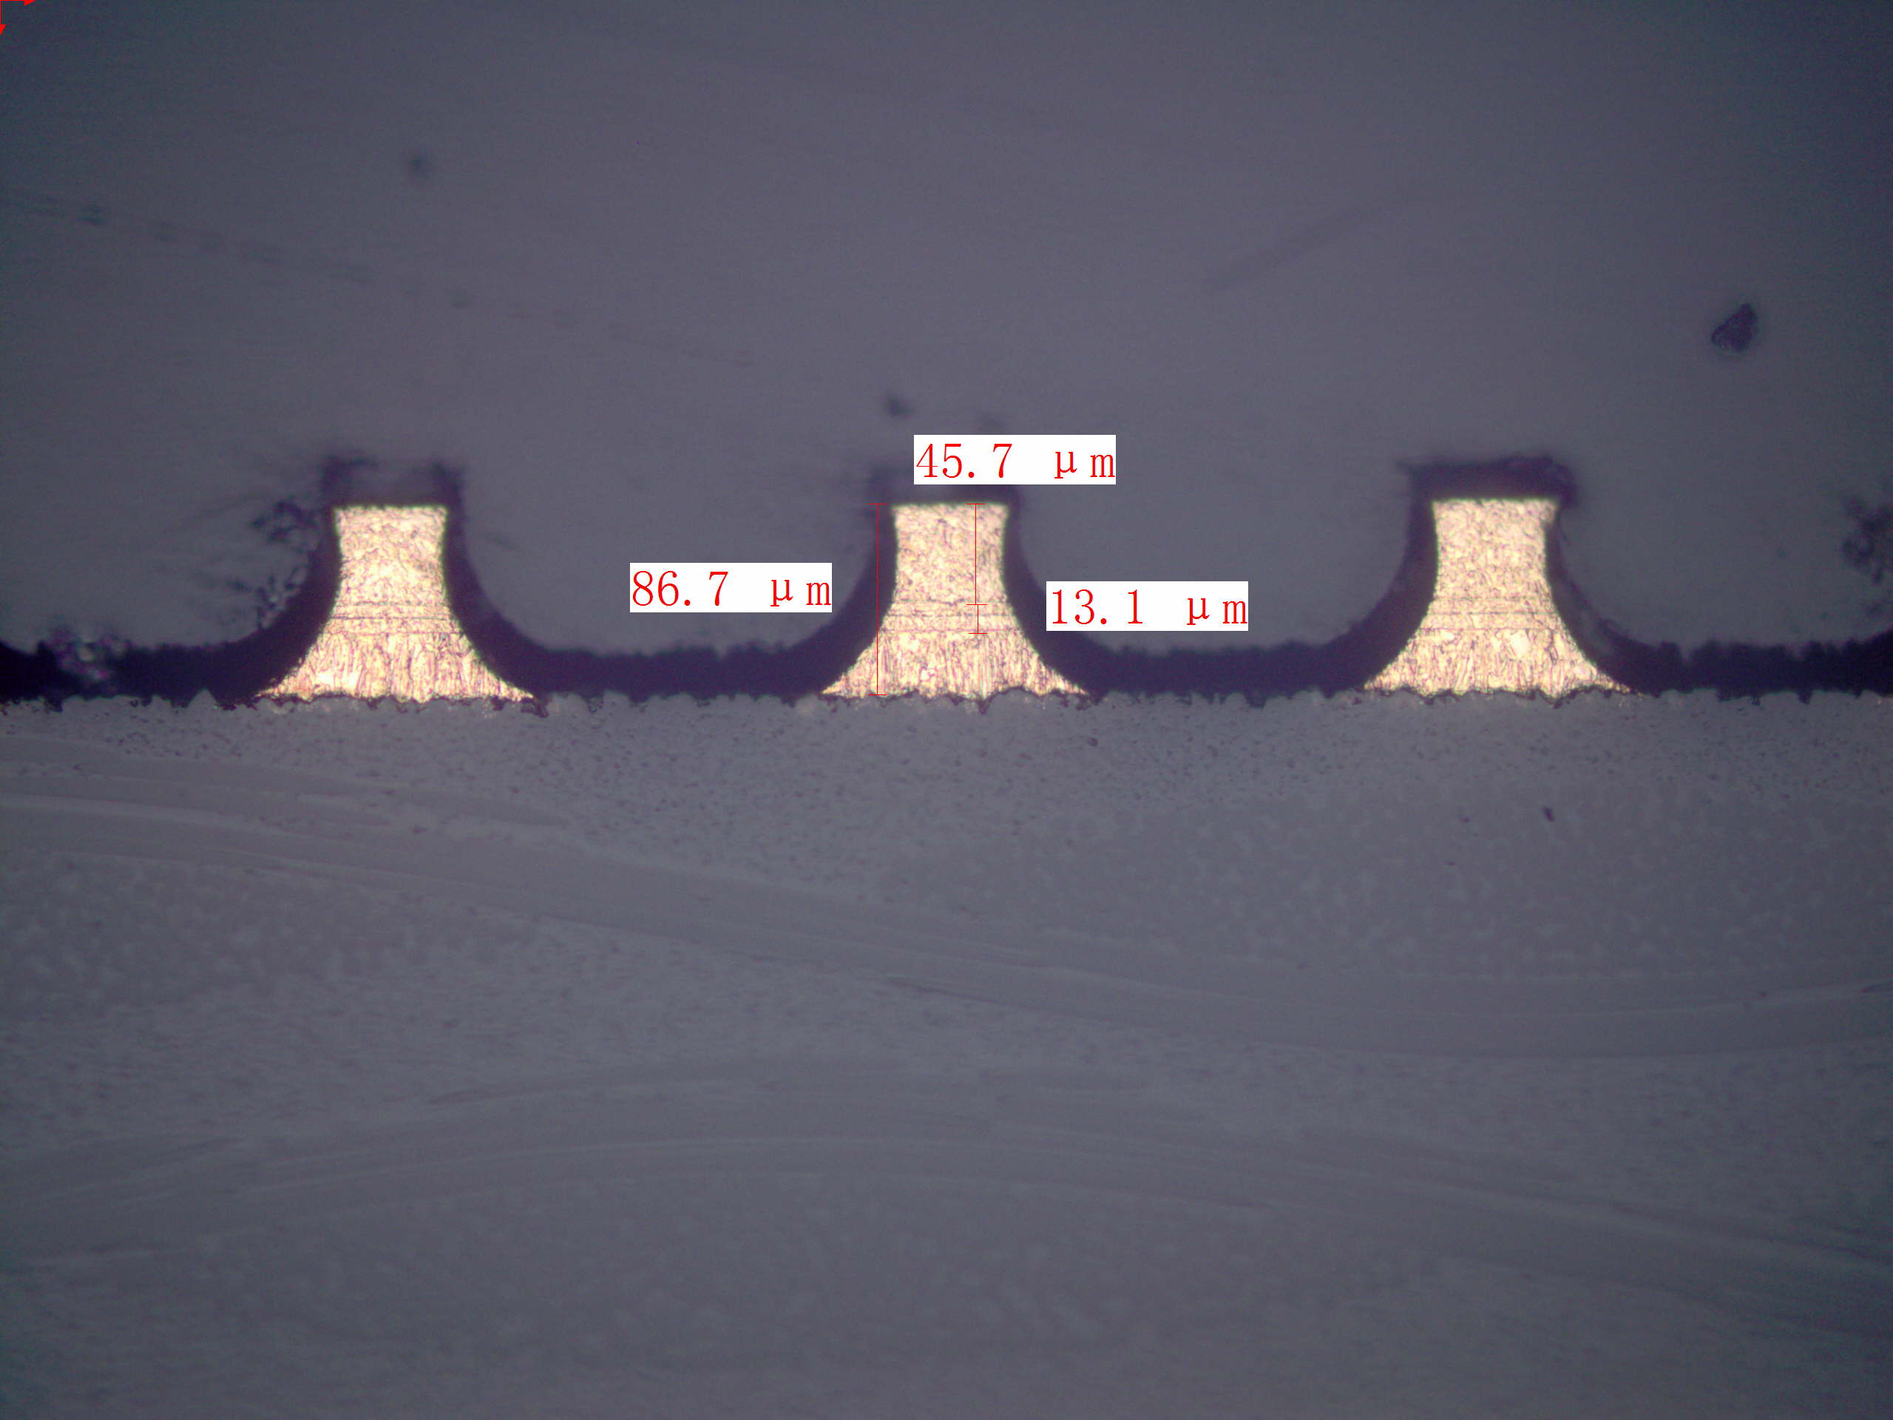
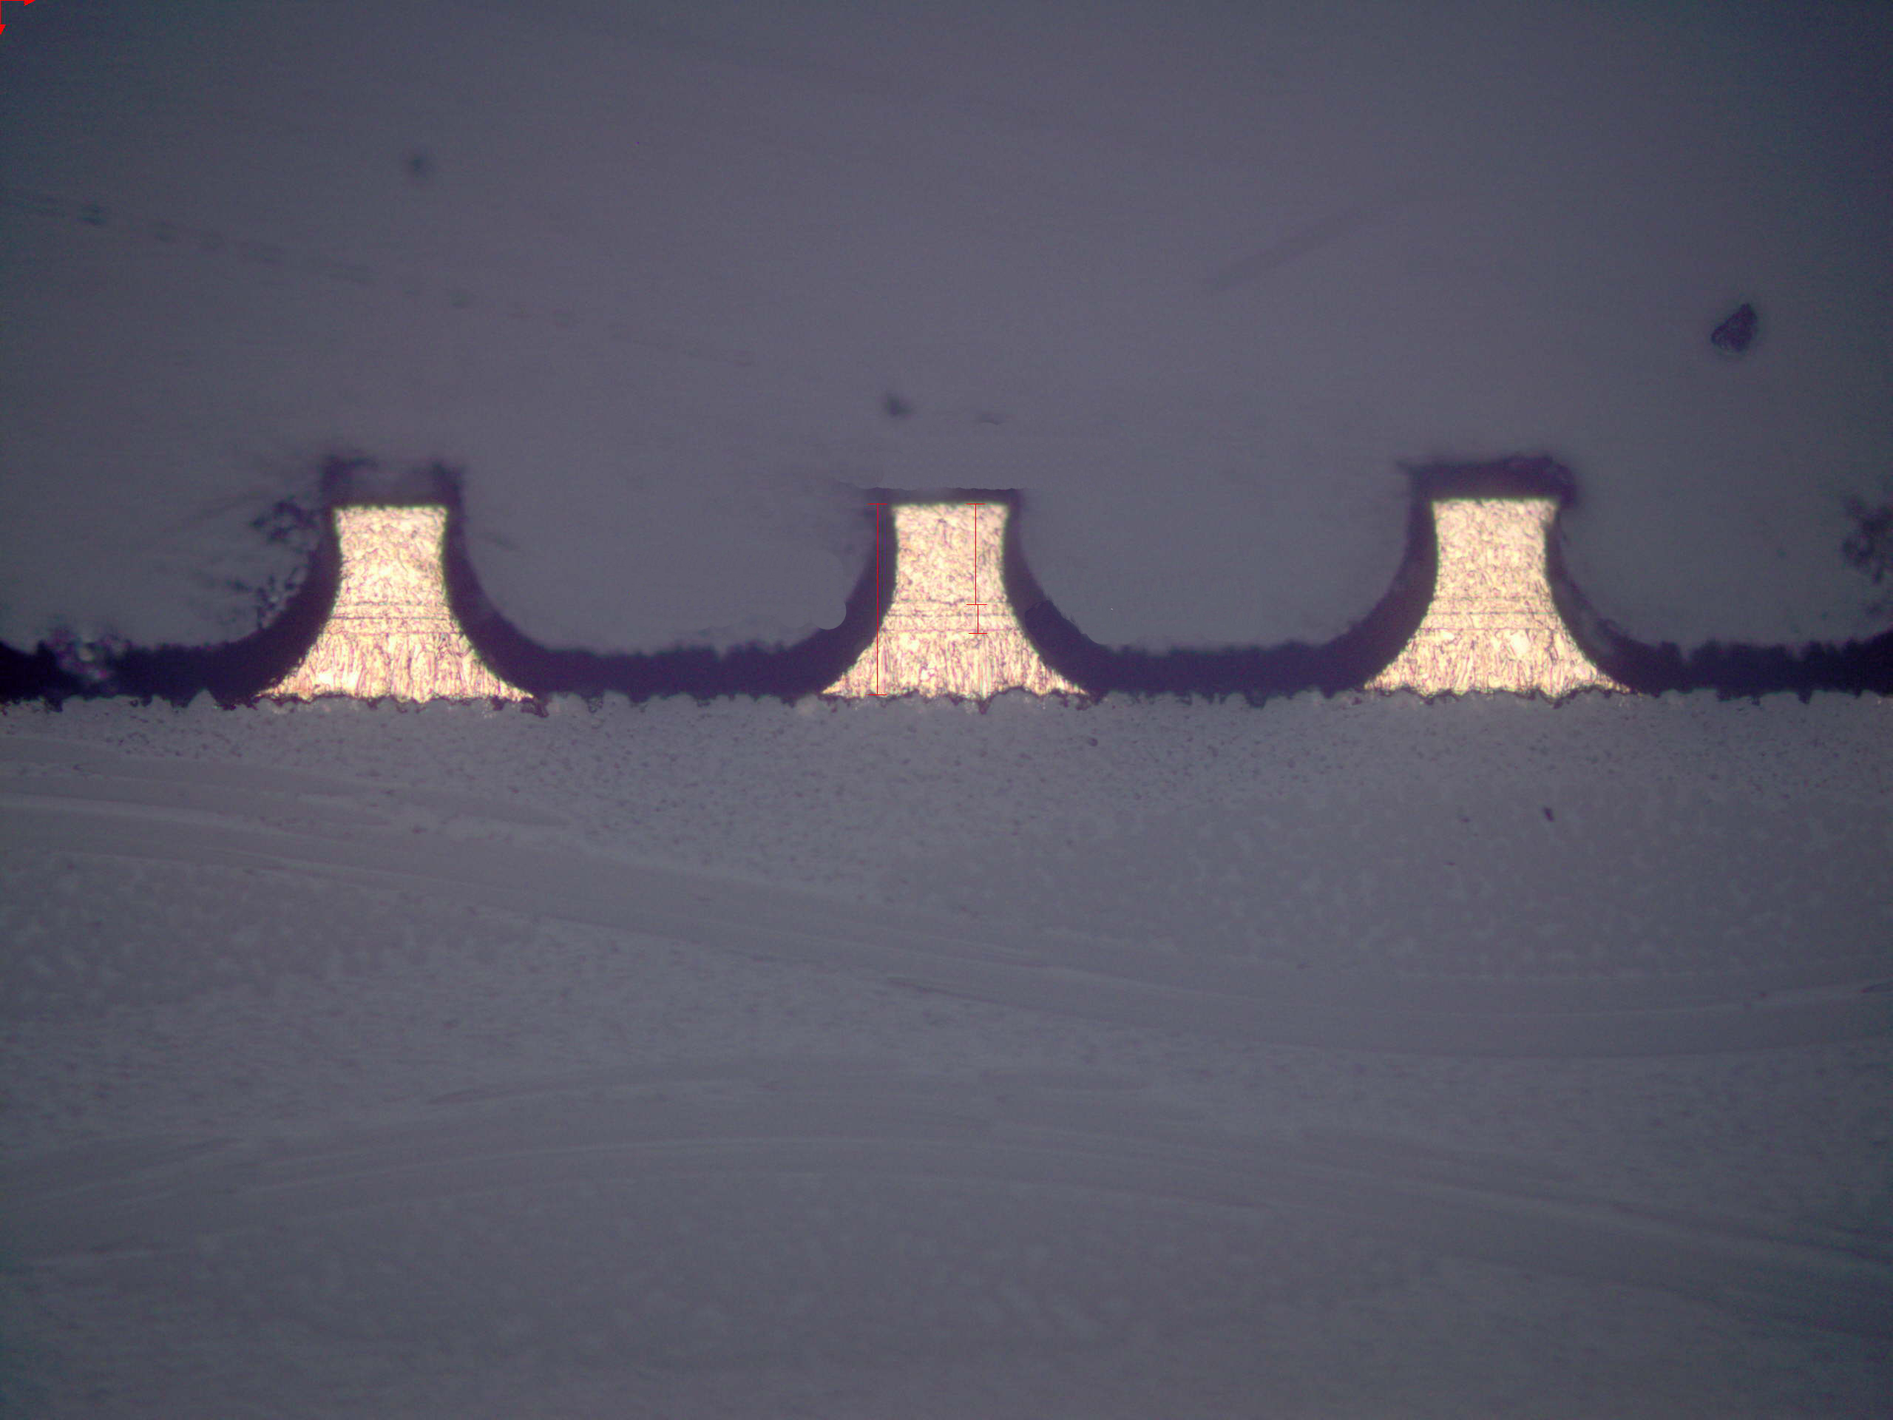
update 8.27 18:26

Changed region(s): [[0.3125, 0.375, 0.4688, 0.4375], [0.4688, 0.2812, 0.5938, 0.3438], [0.5312, 0.4062, 0.6562, 0.4688]]

diff --git a/measurement/utils/circuit_surface.py b/measurement/utils/circuit_surface.py
@@ -10,6 +10,83 @@ import base64
 import os
 
 
+def a_b_c_d_measurement(coordinates, img):
+    """上 左边位置 a, 上 右边位置 b, 下 左边位置 c, 下 右边位置 d
+    先裁剪出来中间的部分，然后用颜色区分检测边缘"""
+
+    height, width, dimension = img.shape
+    right = coordinates[coordinates.argmax(axis=0)[0]]
+    # print("right", right)
+    top_array = coordinates[numpy.where(coordinates[:, 0] == right[0] - 200)]
+    top_limit = coordinates[numpy.where(
+        (coordinates[:, 1] < (top_array[-1][1] + 10)) & (coordinates[:, 1] > (top_array[-1][1] - 10)))]
+
+    top_temp_list = list()
+    for index in range(len(top_limit) - 1):
+        if top_limit[index + 1][0] - top_limit[index][0] > 500:
+            top_temp_list.append(index + 1)
+            break
+    middle_limit_left = top_limit[top_temp_list[0]]
+
+    bottom_array = coordinates[numpy.where(coordinates[:, 1] > top_array[-1][1] + 50)]
+    bottom_array_top = bottom_array[bottom_array.argmin(axis=0)[1]]
+    middle_limit_right = coordinates[numpy.where(
+        (coordinates[:, 1] < (bottom_array_top[1] + 10)) & (coordinates[:, 1] > (bottom_array_top[1] - 10)))][-1]
+    # print("middle_limit_left", middle_limit_left, "middle_limit_right", middle_limit_right)
+
+    # 裁剪图片: 左上角坐标，右下角坐标
+    cut_img = img[top_array[-1][1]:bottom_array_top[1], 0:width]
+
+    cut_img_gray = cv2.cvtColor(cut_img, cv2.COLOR_BGR2GRAY)
+    cut_img_blurred = cv2.bilateralFilter(cut_img_gray, 0, 100, 15)
+    cut_img_thresh = cv2.threshold(cut_img_blurred, 0, 255, cv2.THRESH_BINARY + cv2.THRESH_OTSU)[1]
+
+    cut_edges = cv2.Canny(cut_img_thresh, 200, 400, 1)
+    cut_indices = numpy.where(cut_edges != [0])
+    cut_coordinates = numpy.array(list(zip(cut_indices[1], cut_indices[0])))
+
+    a_coordinate = cut_coordinates[numpy.where(cut_coordinates[:, 0] == middle_limit_left[0])][0]
+    a_real_coordinate = numpy.array([a_coordinate[0], a_coordinate[1] + middle_limit_left[1]])
+    a_length = a_real_coordinate[1] - middle_limit_left[1]
+
+    d_coordinate = cut_coordinates[numpy.where(cut_coordinates[:, 0] == middle_limit_right[0])][-1]
+    d_real_coordinate = numpy.array([d_coordinate[0], top_array[-1][1] + d_coordinate[1]])
+    d_length = middle_limit_right[1] - d_real_coordinate[1]
+    # print("a_coordinate", a_coordinate, "d_coordinate", d_coordinate)
+
+    cv2.line(img, tuple(middle_limit_left), tuple(a_real_coordinate), (0, 255, 0), thickness=4)
+    cv2.putText(img, str(a_length), (middle_limit_left[0] + 10, middle_limit_left[1] + 50), cv2.FONT_HERSHEY_SIMPLEX,
+                2, (0, 255, 0), 4)
+
+    cv2.line(img, tuple(middle_limit_right), tuple(d_real_coordinate), (0, 255, 0), thickness=4)
+    cv2.putText(img, str(d_length), (d_real_coordinate[0] + 10, d_real_coordinate[1] + 50), cv2.FONT_HERSHEY_SIMPLEX,
+                2, (0, 255, 0), 4)
+
+    middle_length = middle_limit_right[0] - middle_limit_left[0]
+    b_c_coordinates = cut_coordinates[numpy.where(cut_coordinates[:, 0] == (middle_limit_left[0] + middle_length // 2))]
+    # print("b_c_coordinates", b_c_coordinates)
+
+    b_top = top_limit[numpy.where(top_limit[:, 0] == b_c_coordinates[0][0])][-1]
+    b_real_bottom = numpy.array([b_c_coordinates[0][0], b_c_coordinates[0][1] + b_top[1]])
+    b_length = b_real_bottom[1] - b_top[1]
+    cv2.line(img, tuple(b_top), tuple(b_real_bottom), (0, 255, 0), thickness=4)
+    cv2.putText(img, str(b_length), (b_top[0] + 10, b_top[1] + 50), cv2.FONT_HERSHEY_SIMPLEX, 2, (0, 255, 0), 4)
+
+    c_real_top = numpy.array([b_c_coordinates[1][0], top_array[-1][1] + b_c_coordinates[1][1]])
+    bottom_limit = coordinates[numpy.where(coordinates[:, 1] >= c_real_top[1] - 20)]
+    c_bottom = bottom_limit[numpy.where(bottom_limit[:, 0] == c_real_top[0])][0]
+    c_length = c_bottom[1] - c_real_top[1]
+    cv2.line(img, tuple(c_real_top), tuple(c_bottom), (0, 255, 0), thickness=4)
+    cv2.putText(img, str(c_length), (c_real_top[0] + 10, c_real_top[1] + 50), cv2.FONT_HERSHEY_SIMPLEX, 2,
+                (0, 255, 0), 4)
+
+    # cv2.namedWindow('cut_img', cv2.WINDOW_NORMAL)
+    # cv2.imshow("cut_img", cut_img)
+    # cv2.waitKey(0)
+
+    return a_length, b_length, c_length, d_length
+
+
 def main(image=None):
     img_name = uuid.uuid1()
     if not image:
@@ -24,30 +101,30 @@ def main(image=None):
     img_blurred = cv2.bilateralFilter(img_gray, 0, 100, 15)
     img_thresh = cv2.threshold(img_blurred, 0, 255, cv2.THRESH_BINARY + cv2.THRESH_OTSU)[1]  # OTSU滤波, 自动找到一个介于两波峰之间的阈值
 
-    # edges = cv2.Canny(img_thresh, 200, 400, 1)
-    # indices = numpy.where(edges != [0])
-    # coordinates = numpy.array(list(zip(indices[1], indices[0])))
+    edges = cv2.Canny(img_thresh, 200, 400, 1)
+    indices = numpy.where(edges != [0])
+    coordinates = numpy.array(list(zip(indices[1], indices[0])))
 
-    # todo 先裁剪出来中间的部分，然后用颜色区分检测边缘...
-
-    # a_b_c_measurement(coordinates, img)
+    a_length, b_length, c_length, d_length = a_b_c_d_measurement(coordinates, img)
 
     if os.path.exists('measurement/images/{}.jpg'.format(img_name)):
         os.remove('measurement/images/{}.jpg'.format(img_name))
 
-    cv2.namedWindow('img_thresh', cv2.WINDOW_NORMAL)
-    cv2.imshow("img_thresh", img_thresh)
-    cv2.waitKey(0)
+    # cv2.namedWindow('img_thresh', cv2.WINDOW_NORMAL)
+    # cv2.imshow("img_thresh", img_thresh)
+    # cv2.waitKey(0)
 
     # cv2.namedWindow('edges', cv2.WINDOW_NORMAL)
     # cv2.imshow("edges", edges)
     # cv2.waitKey(0)
 
-    cv2.namedWindow('img', cv2.WINDOW_NORMAL)
-    cv2.imshow("img", img)
-    cv2.waitKey(0)
+    # cv2.namedWindow('img', cv2.WINDOW_NORMAL)
+    # cv2.imshow("img", img)
+    # cv2.waitKey(0)
 
-    cv2.destroyAllWindows()
+    # cv2.destroyAllWindows()
+
+    return {"a": a_length, "b": b_length, "c": c_length, "d": d_length, "image": img}
 
 
 if __name__ == '__main__':

diff --git a/measurement/utils/circuit_copper_width.py b/measurement/utils/circuit_copper_width.py
@@ -9,6 +9,9 @@ import uuid
 import base64
 import os
 
+COMBINE = ['a', 'b', 'c', 'd', 'e', 'f', 'g', 'h', 'i', 'j', 'k', 'l', 'm', 'n', 'o', 'p', 'q', 'r', 's', 't', 'u',
+           'v', 'w', 'x', 'y', 'z']
+
 
 def a_b_measurement(coordinates, img):
     """会有多个 部分尺寸测量 整体宽度 里面的部分位置和背景噪声很像，无法识别测量"""
@@ -20,31 +23,32 @@ def a_b_measurement(coordinates, img):
         (coordinates[:, 1] >= bottom_array[-2][1] - 100) & (coordinates[:, 1] <= bottom_array[-1][1] + 100))]
     coordinates_limit_sort = width_limit[width_limit[:, 0].argsort(), :]
     # print("coordinates_limit_sort", coordinates_limit_sort)
-    count_list = list()
+
+    count_list, middle_list, length_list = list(), list(), list()
     for index in range(len(coordinates_limit_sort) - 1):
         if coordinates_limit_sort[index + 1][0] - coordinates_limit_sort[index][0] > 50:
             count_list.append(index)
-    # print("count_list", count_list)
-    # todo 多个物体自动测量
-    a_x_left, a_x_right = coordinates_limit_sort[0][0], coordinates_limit_sort[count_list[0]][0]
-    b_x_left, b_x_right = coordinates_limit_sort[count_list[0] + 1][0], coordinates_limit_sort[-1][0]
-    # print(a_x_left, a_x_right), print(b_x_left, b_x_right)
-    a_middle = a_x_left + (a_x_right - a_x_left) // 2
-    a_coordinates_array = coordinates[numpy.where(coordinates[:, 0] == a_middle)]
-    a_coordinate_top, a_coordinate_bottom = a_coordinates_array[-2], a_coordinates_array[-1]
-    a_length = a_coordinate_bottom[1] - a_coordinate_top[1]
-    cv2.line(img, tuple(a_coordinate_top), tuple(a_coordinate_bottom), (255, 0, 0), thickness=4)
-    cv2.putText(img, str(a_length), (a_coordinate_top[0] + 10, a_coordinate_top[1] + 50),
-                cv2.FONT_HERSHEY_SIMPLEX, 2, (255, 0, 0), 4)
+            count_list.append(index + 1)
 
-    b_middle = b_x_left + (b_x_right - b_x_left) // 2
-    b_coordinates_array = coordinates[numpy.where(coordinates[:, 0] == b_middle)]
-    b_coordinate_top, b_coordinate_bottom = b_coordinates_array[-2], b_coordinates_array[-1]
-    b_length = b_coordinate_bottom[1] - b_coordinate_top[1]
-    # print("a_coordinates_array", a_coordinates_array), print("b_coordinates_array", b_coordinates_array)
-    cv2.line(img, tuple(b_coordinate_top), tuple(b_coordinate_bottom), (255, 0, 0), thickness=4)
-    cv2.putText(img, str(b_length), (b_coordinate_top[0] + 10, b_coordinate_top[1] + 50),
-                cv2.FONT_HERSHEY_SIMPLEX, 2, (255, 0, 0), 4)
+    count_list.insert(0, 0)
+    count_list.append(len(coordinates_limit_sort) - 1)
+    # print("count_list", count_list)
+
+    # 多个物体自动测量
+    for index in range(len(count_list) - 1):
+        x_left, x_right = coordinates_limit_sort[count_list[index]][0], coordinates_limit_sort[count_list[index + 1]][0]
+        middle = x_left + (x_right - x_left) // 2
+        # print("x_left", x_left, "x_right", x_right, "middle", middle)
+        middle_array = width_limit[numpy.where(width_limit[:, 0] == middle)]
+        # print("middle_array", middle_array)
+        if len(middle_array) > 0:
+            top, bottom = middle_array[0], middle_array[-1]
+            length = abs(bottom[1] - top[1])
+            length_list.append(length)
+            cv2.line(img, tuple(top), tuple(bottom), (255, 0, 0), thickness=4)
+            cv2.putText(img, str(length), (top[0] + 10, top[1] + 50), cv2.FONT_HERSHEY_SIMPLEX, 2, (255, 0, 0), 4)
+
+    return dict(zip(COMBINE, length_list))
 
 
 def main(image=None):
@@ -66,7 +70,7 @@ def main(image=None):
     indices = numpy.where(edges != [0])
     coordinates = numpy.array(list(zip(indices[1], indices[0])))
 
-    a_b_measurement(coordinates, img)
+    data = a_b_measurement(coordinates, img)
 
     if os.path.exists('measurement/images/{}.jpg'.format(img_name)):
         os.remove('measurement/images/{}.jpg'.format(img_name))
@@ -75,15 +79,17 @@ def main(image=None):
     # cv2.imshow("img_thresh", img_thresh)
     # cv2.waitKey(0)
 
-    cv2.namedWindow('edges', cv2.WINDOW_NORMAL)
-    cv2.imshow("edges", edges)
-    cv2.waitKey(0)
+    # cv2.namedWindow('edges', cv2.WINDOW_NORMAL)
+    # cv2.imshow("edges", edges)
+    # cv2.waitKey(0)
 
     cv2.namedWindow('img', cv2.WINDOW_NORMAL)
     cv2.imshow("img", img)
     cv2.waitKey(0)
 
     cv2.destroyAllWindows()
+
+    return data
 
 
 if __name__ == '__main__':

diff --git a/measurement/utils/polygon_6.py b/measurement/utils/polygon_6.py
@@ -13,46 +13,60 @@ import os
 def a_measurement(coordinates, img):
     """右边 竖直位置 a"""
     right = coordinates[coordinates.argmax(axis=0)[0]]
-    a_right_array = coordinates[numpy.where(coordinates[:, 0] == right[0])]
-    # print("right", right), print("a_right_array", a_right_array)
+    a_right_array = coordinates[numpy.where(coordinates[:, 0] == right[0] - 100)]
+    print("right", right), print("a_right_array", a_right_array)
+
     temp_list = list()
-    for index in range(len(a_right_array)):
+    for index in range(len(a_right_array) - 1):
         if a_right_array[index + 1][1] - a_right_array[index][1] > 70:
             temp_list.append(index + 1)
             break
-    a_y = a_right_array[temp_list[0]]
+    a_y = a_right_array[temp_list[0]][1] if temp_list else a_right_array[0]
     a_right_bottom = a_right_array[-1]
-    # print("a_y", a_y), print("a_right_bottom", a_right_bottom)
+    print("a_y", a_y), print("a_right_bottom", a_right_bottom)
 
-    # limit = coordinates[numpy.where(coordinates[:, 1] > (a_right_bottom[1] + 70))][0]
+    height, width, dimension = img.shape
+    bottom_array = coordinates[numpy.where(coordinates[:, 1] <= height)]
+    print("bottom_array", bottom_array)
+    temp_list_2 = list()
+    for index in range(len(bottom_array) - 1):
+        if bottom_array[index + 1][0] - bottom_array[index][0] > 200:
+            temp_list_2.append(index + 1)
+            break
+
+    # todo 图片4 有点问题，模糊导致下面没有边缘
+    bottom_left = bottom_array[temp_list_2[0]]
+    print("bottom_left", bottom_left)
+
+    limit = coordinates[numpy.where(
+        (coordinates[:, 0] > (bottom_left[0] - 20)) & (coordinates[:, 0] < (width - 100)) &
+        (coordinates[:, 1] > (a_right_bottom[1] + 50)))]
     # print("limit", limit)
+    for l in limit:
+        cv2.circle(img, tuple(l), 1, (0, 255, 0), 1)
 
-    bottom = coordinates[coordinates.argmax(axis=0)[1]]
-    # print("bottom", bottom)  # [1182 1919]
-    a_bottom_array = coordinates[numpy.where(coordinates[:, 1] == bottom[1] - 300)]
-    # print("a_bottom_array", a_bottom_array)
-    a_x_1 = 1662
-    a_bottom_array_2 = coordinates[numpy.where(coordinates[:, 1] >= (bottom[1] - 600))]
-    # print("a_bottom_array_2", a_bottom_array_2)
-    a_x_2 = 1648
+    temp_list_4 = list()
+    for index in range(len(limit) - 1):
+        if limit[index + 1][1] - limit[index][1] > 30:
+            temp_list_4.append(index + 1)
+            break
+    print("temp_list_4", temp_list_4)
+    a_coordinate_bottom = limit[temp_list_4[0]] if temp_list_4 else limit[limit.argmin(axis=0)[1]]
+    a_coordinate_top = numpy.array([a_coordinate_bottom[0], a_y])
+    a_length = a_coordinate_bottom[1] - a_coordinate_top[1]
+    print("a_coordinate_bottom", a_coordinate_bottom, "a_coordinate_top", a_coordinate_top)
 
-    a_bottom_array_3 = coordinates[numpy.where(coordinates[:, 1] >= (bottom[1] - 900))]
-    # print("a_bottom_array_3", a_bottom_array_3)
-    a_x_3 = 1640
+    cv2.line(img, tuple(a_coordinate_top), tuple(a_coordinate_bottom), (255, 0, 0), thickness=4)
+    cv2.putText(img, str(a_length), (a_coordinate_top[0] + 10, a_coordinate_top[1] + 30), cv2.FONT_HERSHEY_SIMPLEX, 2,
+                (255, 0, 0), 4)
 
-    a_x_mean = (a_x_1 + a_x_2 + a_x_3) // 3
-    print("a_x_mean", a_x_mean)
-
-    a_coordinate_bottom = coordinates[numpy.where(coordinates[:, 0] == a_x_mean)]
-    # print("a_coordinate_bottom", a_coordinate_bottom)
-
-    cv2.line(img, (a_x_mean, 238), (a_x_mean, 518), (255, 0, 0), thickness=4)
+    return a_length
 
 
 def main(image=None):
     img_name = uuid.uuid1()
     if not image:
-        img = cv2.imread('measurement/template/polygon_6.jpg')
+        img = cv2.imread('measurement/template/3.jpg')
     else:
         receive = base64.b64decode(image)
         with open('measurement/images/{}.jpg'.format(img_name), 'wb') as f:
@@ -74,9 +88,9 @@ def main(image=None):
     if os.path.exists('measurement/images/{}.jpg'.format(img_name)):
         os.remove('measurement/images/{}.jpg'.format(img_name))
 
-    cv2.namedWindow('img_thresh', cv2.WINDOW_NORMAL)
-    cv2.imshow("img_thresh", img_thresh)
-    cv2.waitKey(0)
+    # cv2.namedWindow('img_thresh', cv2.WINDOW_NORMAL)
+    # cv2.imshow("img_thresh", img_thresh)
+    # cv2.waitKey(0)
 
     cv2.namedWindow('edges', cv2.WINDOW_NORMAL)
     cv2.imshow("edges", edges)

diff --git a/measurement/utils/polygon_3.py b/measurement/utils/polygon_3.py
@@ -12,7 +12,9 @@ import os
 
 def a_measurement(coordinates, img):
     """宽度"""
-    pass
+    bottom = coordinates[coordinates.argmax(axis=0)[1]]
+    print("bottom", bottom)
+    cv2.circle(img, tuple(bottom), 6, (0, 0, 255), 6)
 
 
 def main(image=None):
@@ -25,20 +27,39 @@ def main(image=None):
             f.write(receive)
         img = cv2.imread('measurement/images/{}.jpg'.format(img_name))
 
-    img_gray = cv2.cvtColor(img, cv2.COLOR_BGR2GRAY)
-    img_blurred = cv2.GaussianBlur(img_gray, (5, 5), 0)
-    # img_blurred = cv2.bilateralFilter(img_gray, 0, 100, 15)
-    # img_thresh = cv2.threshold(img_gray, 0, 255, cv2.THRESH_BINARY + cv2.THRESH_OTSU)[1]  # OTSU滤波, 自动找到一个介于两波峰之间的阈值
-    img_thresh = cv2.threshold(img_blurred, 127, 255, 0)[1]  # 简单滤波
-    edges = cv2.Canny(img_thresh, 200, 400, 3)  # shape (1944, 2592)
+    # todo 颜色区分...噪点太多，感觉无法定位
+    img_hsv = cv2.cvtColor(img, cv2.COLOR_BGR2HSV)
+    img_blurred = cv2.bilateralFilter(img_hsv, 9, 100, 15)
 
+    # 黄色
+    lower_yellow = numpy.array([26, 43, 46])
+    upper_yellow = numpy.array([34, 255, 255])
+    mask = cv2.inRange(img_blurred, lower_yellow, upper_yellow)
+    res = cv2.bitwise_and(img, img, mask=mask)
+
+    edges = cv2.Canny(mask, 200, 400, 1)
     indices = numpy.where(edges != [0])
     coordinates = numpy.array(list(zip(indices[1], indices[0])))
+
+    for e in coordinates:
+        cv2.circle(img, tuple(e), 1, (0, 255, 0), 1)
 
     a_measurement(coordinates, img)
 
     if os.path.exists('measurement/images/{}.jpg'.format(img_name)):
         os.remove('measurement/images/{}.jpg'.format(img_name))
+
+    cv2.namedWindow('img_hsv', cv2.WINDOW_NORMAL)
+    cv2.imshow("img_hsv", img_hsv)
+    cv2.waitKey(0)
+
+    cv2.namedWindow('mask', cv2.WINDOW_NORMAL)
+    cv2.imshow("mask", mask)
+    cv2.waitKey(0)
+
+    cv2.namedWindow('res', cv2.WINDOW_NORMAL)
+    cv2.imshow("res", res)
+    cv2.waitKey(0)
 
     cv2.namedWindow('edges', cv2.WINDOW_NORMAL)
     cv2.imshow("edges", edges)

diff --git a/measurement/views.py b/measurement/views.py
@@ -54,9 +54,10 @@ class Measurement(APIView):
         elif shape == "15":
             copper_surface.main(image)
         elif shape == "16":
-            circuit_surface.main(image)
+            data = circuit_surface.main(image)
         elif shape == "17":
-            circuit_copper_width.main(image)
+            data = circuit_copper_width.main(image)
+            return Response(data, status=status.HTTP_200_OK)
         else:
             return Response({"res": 1, "errmsg": "参数shape代号错误！"}, status=status.HTTP_400_BAD_REQUEST)
 
